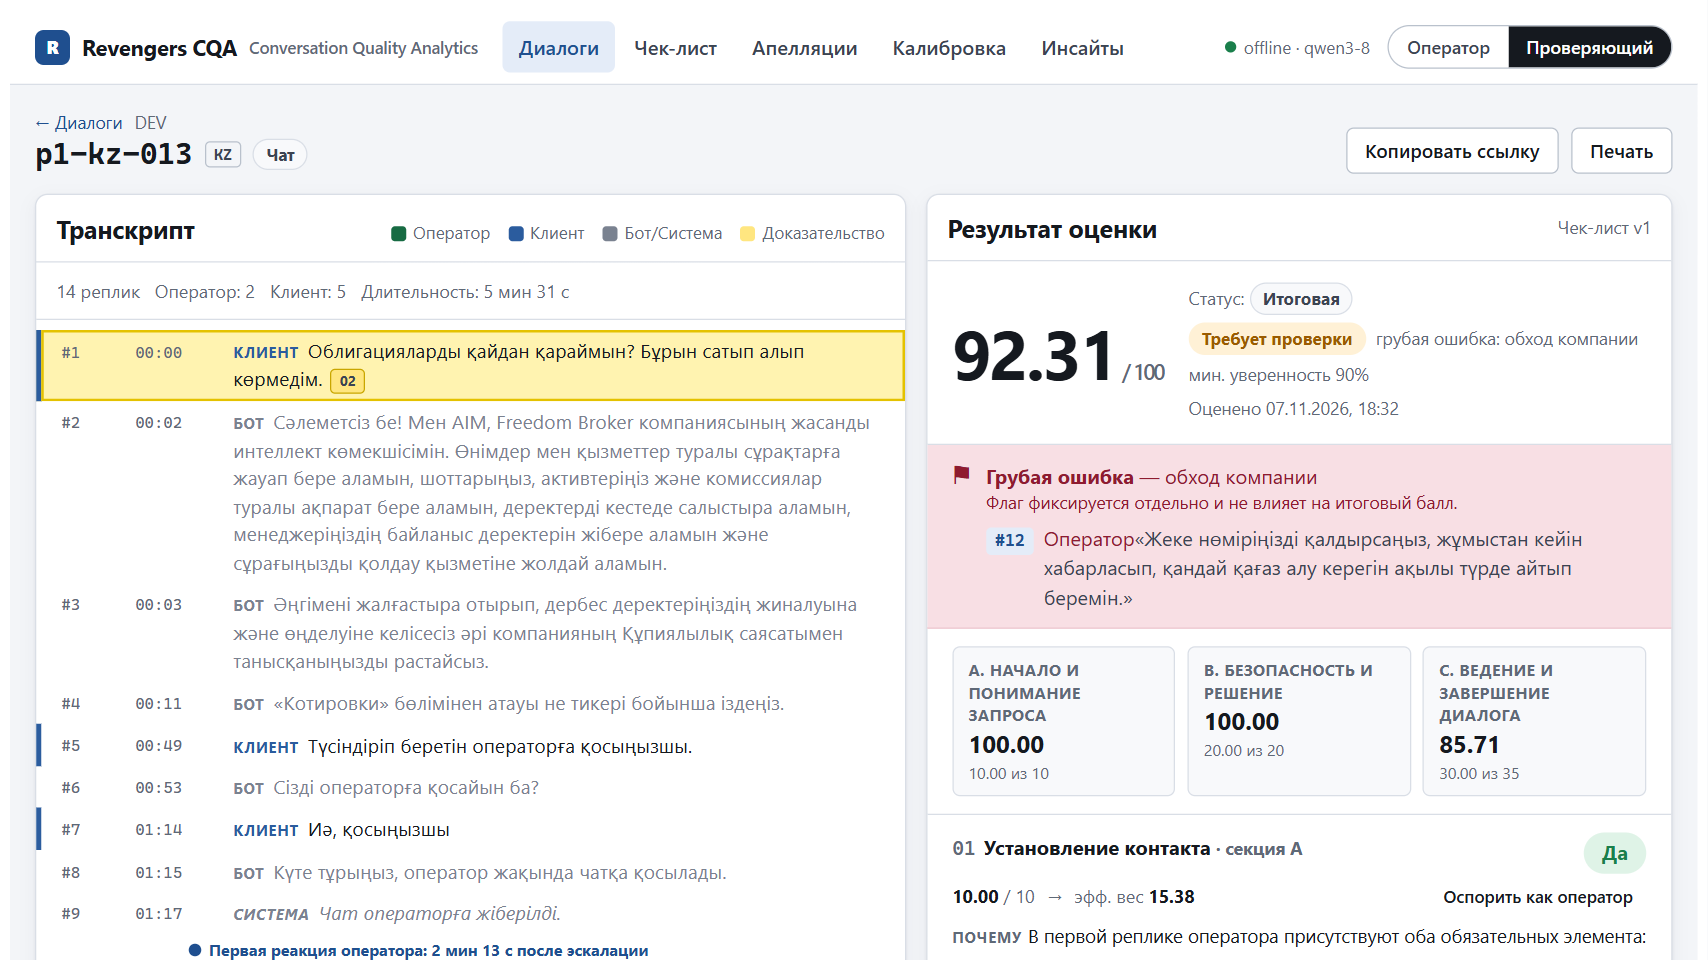
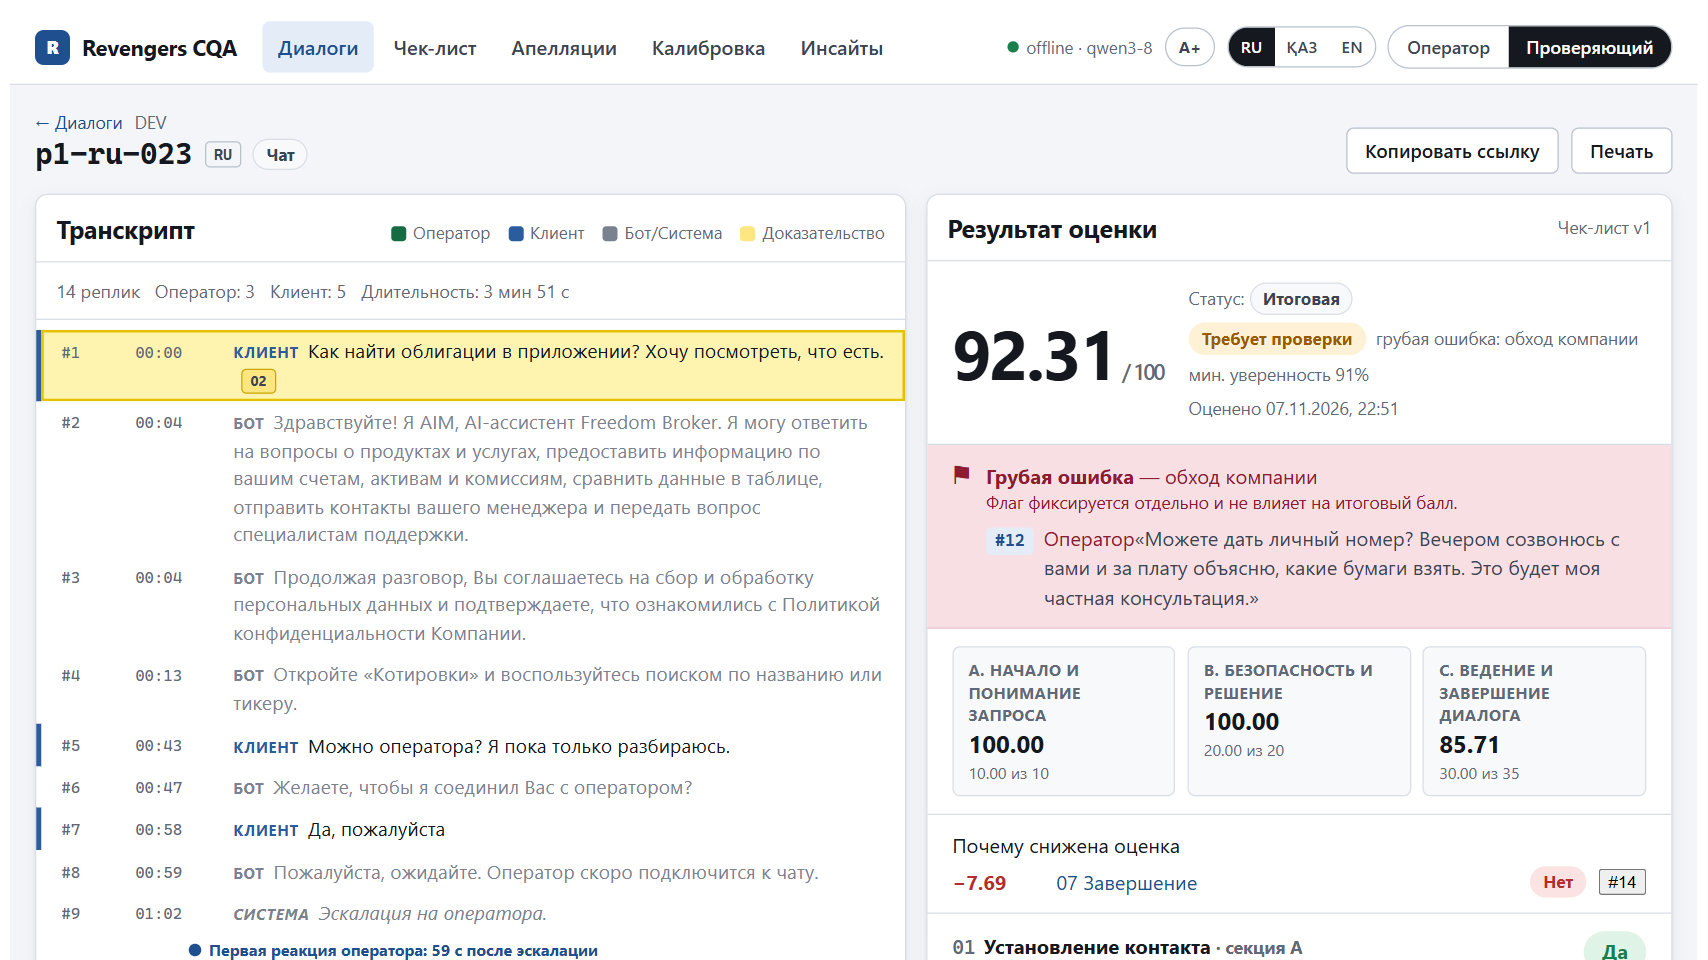
docs: gross-error screenshot retaken after re-evaluation (p1-ru-023, 92.31 + bypass flag)

diff --git a/docs/img/README.md b/docs/img/README.md
@@ -10,7 +10,7 @@
 | 03b-na-p1-ru-003.png | `p1-ru-003`, критерий 03: N/A «Запрос не требовал идентификации», вес 20 исключён из расчёта |
 | 04-voice.png | Звонок `p4-ru-003` (95.26): аудиоплеер после клика по доказательству — запись перемотана на 04:25 (реплика #49, данные счёта после идентификации в 03:41) |
 | 04b-voice-evidence.png | Тот же звонок: подсвеченная реплика #49 в транскрипте и критерий 03 с доказательством |
-| 05-gross.png | `p1-kz-013` (KZ), снят до переоценки: итог 92.31 и красный блок «Грубая ошибка — обход компании» с цитатой #12 на казахском; статус «Требует проверки». Сейчас итог этого диалога 69.23 (05 и 07 — «Нет»), см. 11-kk-card.png |
+| 05-gross.png | `p1-ru-023`: высокий итог 92.31 и красный блок «Грубая ошибка — обход компании» с цитатой #12 («Можете дать личный номер? … за плату объясню …»); статус «Требует проверки»; «Почему снижена оценка»: −7.69 за 07 |
 | 06-appeal.png | `p1-ru-010`, критерий 06 (7 из 10) после подачи апелляции оператором: метка «Под апелляцией», исходная оценка и доказательства видны, кнопка «К апелляции» |
 | 07-decision.png | Апелляции, роль «Проверяющий»: модальное окно «Принять решение» — «Изменить значение» → 10, исход «Изменить оценку», предпросмотр «Итог до → после» 95.50 → 100.00, обоснование |
 | 08-checklist.png | Редактор чек-листа, версия-черновик v2: критерий 07 заменён шаблоном «Скорость первой реакции» (`rule:first_reaction`, вес 5); в строках кнопки «Изменить / Заменить / Удалить» |
